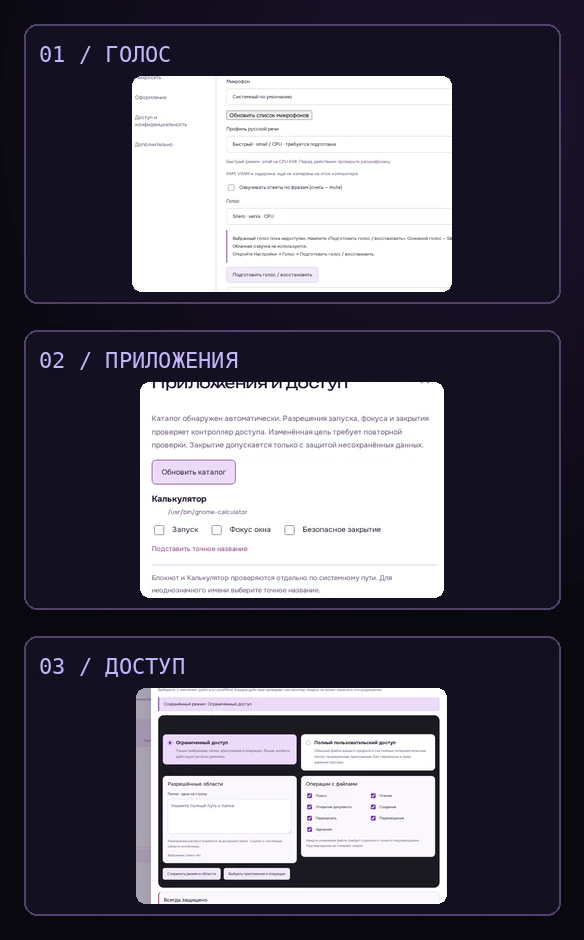
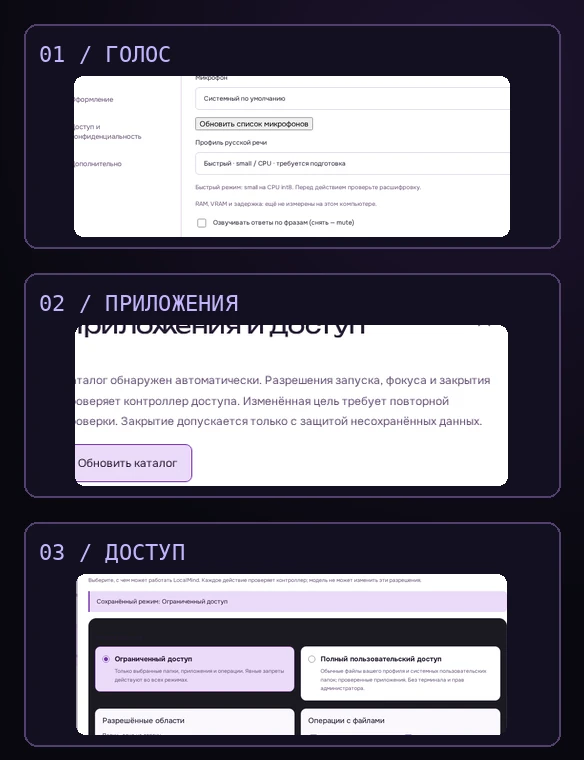
Improve typography and showcase density at tablet widths

diff --git a/README.md b/README.md
@@ -1,5 +1,5 @@
 <picture>
-  <source media="(max-width: 600px)" srcset="docs/brand/hero-mobile.svg">
+  <source media="(max-width: 800px)" srcset="docs/brand/hero-mobile.svg">
   <img width="100%" alt="LocalMind — Your computer. Your assistant. Your rules." src="docs/brand/hero.svg">
 </picture>
 
@@ -16,7 +16,7 @@
 [![Рабочий экран LocalMind с историей бесед, полем ввода и микрофоном](docs/brand/workspace.webp)](docs/screenshots/home.png)
 
 <picture>
-  <source media="(max-width: 600px)" srcset="docs/brand/interface-mobile.webp">
+  <source media="(max-width: 800px)" srcset="docs/brand/interface-mobile.webp">
   <img width="100%" alt="Три реальных фрагмента LocalMind: настройки голоса, каталог приложений и правила доступа" src="docs/brand/interface.webp">
 </picture>
 
@@ -32,7 +32,7 @@
 ## Возможности
 
 <picture>
-  <source media="(max-width: 600px)" srcset="docs/brand/features-mobile.svg">
+  <source media="(max-width: 800px)" srcset="docs/brand/features-mobile.svg">
   <img width="100%" alt="Локальный AI на Ollama. Распознавание Whisper и озвучка Silero. Запуск приложений с разрешением. Чтение выбранных папок. История в локальном профиле. Офлайн после загрузки моделей." src="docs/brand/features.svg">
 </picture>
 
@@ -55,7 +55,10 @@
 
 ---
 
-[![LocalMind — Your computer. Your rules.](docs/brand/signature.svg)](https://github.com/wiseakk/LocalMind)
+<picture>
+  <source media="(max-width: 800px)" srcset="docs/brand/signature-mobile.svg">
+  <img width="100%" alt="LocalMind — Your computer. Your rules." src="docs/brand/signature.svg">
+</picture>
 
 <div align="center">
 
